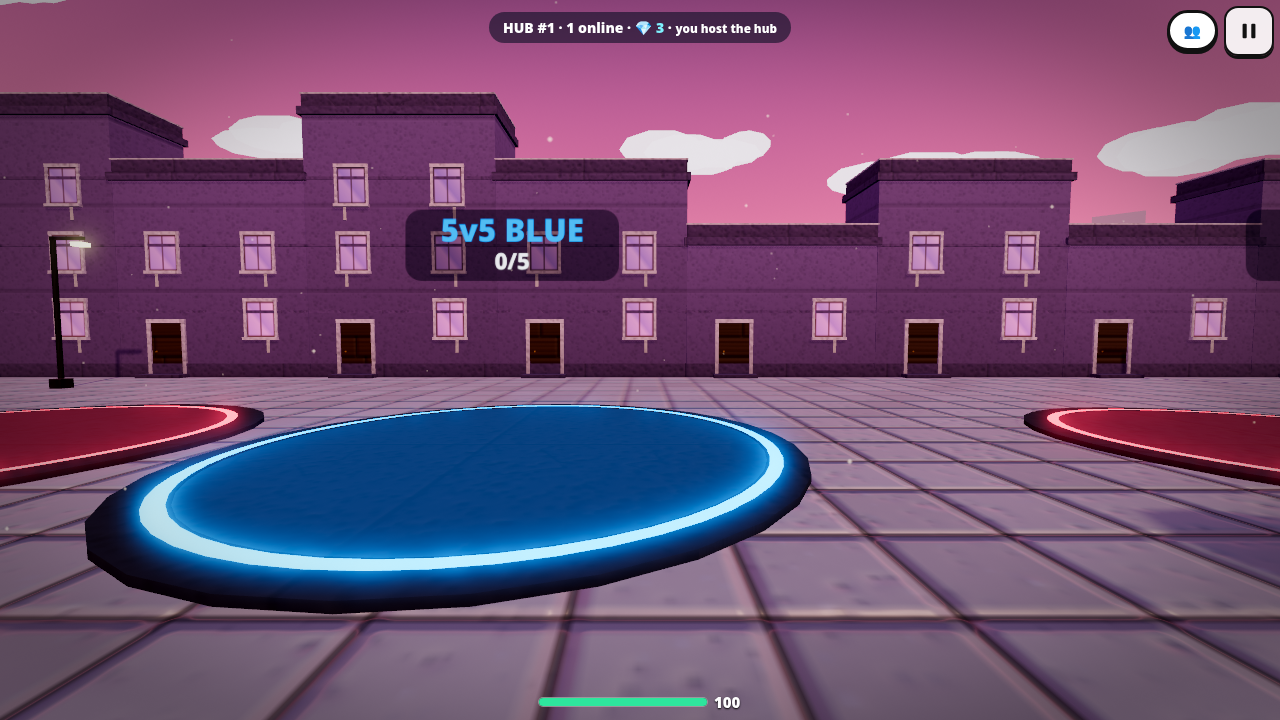
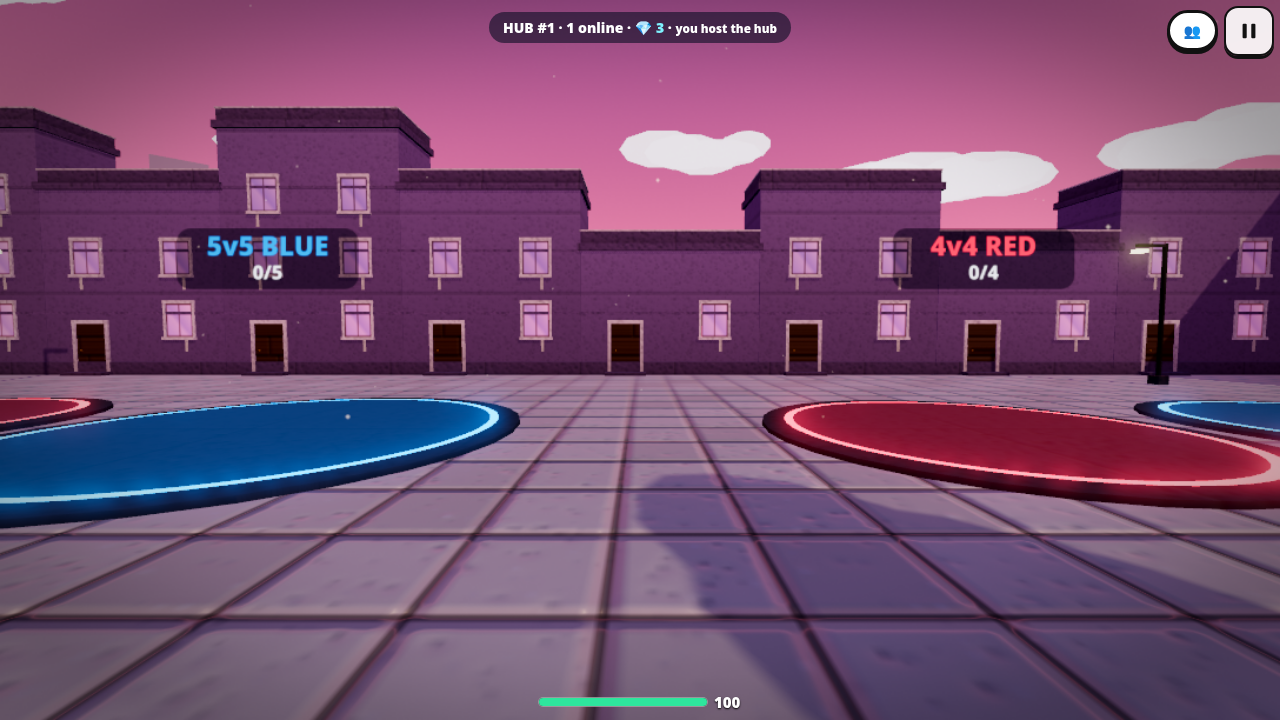
Hub makeover: storefront stations (walls, counter, striped awning, lit sign, shelves with goods, lights) incl. new Skin Studio, NPC shopkeepers that look at players and wave, square colour-coded queue pads in a grid with animated glowing edges/posts, rising particles and fill-based pulse; SW v30

diff --git a/game.js b/game.js
@@ -3,7 +3,7 @@ import {THREE,FX,TX,MC,G,mergeParts,GQ,texMat,swapMats,WT,GRASS_T,scatterGrass,m
 import {WSKINS,WSKIN_IDS,WSKIN_FEAT,applySkin,tickSkins,clearSkinCache} from './wskins.js';
 import {Post} from './post.js';
 import {TURN} from './ice.js';
-import {MAPS,buildMap,HUB_PADS,HUB_ST,HUB_I,padCircles} from './maps.js';
+import {MAPS,buildMap,HUB_PADS,HUB_ST,HUB_I,padCircles,inPad,PAD_COL} from './maps.js';
 import {W,CLASSES,LIMB,falloff,stats,gunParts,handParts} from './weapons.js';
 import {makeCharacter,animate,LOOKS} from './chars.js';
 // player classes: cosmetic look + small balanced perk. Host enforces HP/regen/revive; movement perks apply on the owner's client.
@@ -1082,7 +1082,7 @@ class HubServer{constructor(peer,n){this.peer=peer;this.n=n;this.cl={};this.ord=
  drop(id){const c=this.cl[id];if(!c)return;delete this.cl[id];for(const k in this.rooms)if(this.rooms[k].by===id)delete this.rooms[k];if(c.kind==='player'){this.bc({t:'hl',o:c.ord});this.lastPads=''}}
  tick(){const now=Date.now();const ps=this.players();const free=ps.filter(p=>!p.busy);
   // queue = who is physically standing inside each circle (server-side check, so leaving a circle unqueues instantly)
-  const st={};for(const p of HUB_PADS){st[p.k]={};for(const c of padCircles(p))st[p.k][c.side]=free.filter(q=>Math.hypot(q.pos[0]-c.x,q.pos[2]-c.z)<c.r).sort((a,b)=>a.ord-b.ord).slice(0,p.n).map(q=>q.id)}
+  const st={};for(const p of HUB_PADS){st[p.k]={};for(const c of padCircles(p))st[p.k][c.side]=free.filter(q=>inPad(c,q.pos[0],q.pos[2])).sort((a,b)=>a.ord-b.ord).slice(0,p.n).map(q=>q.id)}
   const key=JSON.stringify(st);if(key!==this.lastPads){this.lastPads=key;const o={};for(const k in st){o[k]={};for(const s in st[k])o[k][s]=st[k][s].map(id=>this.cl[id].ord)}this.bc({t:'pads',q:o});
    if(st.ffa.F.length!==this.ffaN){this.ffaN=st.ffa.F.length;this.ffaT=now}}
   for(const p of HUB_PADS){const s=st[p.k];if(p.single){const n=s.F.length;if(n>=p.n||(n>=2&&now-this.ffaT>15000)){this.startSel(p,s);this.ffaT=now}}else if(s.A.length>=p.n&&s.B.length>=p.n)this.startSel(p,s)}
@@ -1117,28 +1117,42 @@ function enterHubWorld(m){setTimeout(()=>{if(C.hub&&Object.keys(THUMB).length<MA
  inGame=true;resize();const a=Math.random()*6.28;me.pos.set(Math.cos(a)*2.5,0,4+Math.sin(a)*2);me.vel.set(0,0,0);me.yaw=Math.PI;me.pitch=-.05;me.hp=100;me.alive=true;me.frozen=false;me.id='hub-me';
  if(sessionStorage.getItem('hsz_requeue')){sessionStorage.removeItem('hsz_requeue');try{const lp=JSON.parse(sessionStorage.getItem('hsz_pad')||'null');const P=lp&&HUB_PADS.find(p=>p.k===lp[0]);const c=P&&padCircles(P).find(c=>c.side===lp[1]);if(c){me.pos.set(c.x,0,c.z);me.yaw=c.side==='A'?-Math.PI/2:c.side==='B'?Math.PI/2:Math.PI;center('⚔ Re-queued — waiting for players',2500)}}catch(e){}}
  setViewModel(me.load[0]);buildSlots();updHP();for(const r of m.players||[]){hubRecv({t:'hj',p:[r[0],r[1],r[2],r[7]]});const q=C.players['h'+r[0]];if(q){q.tp.set(r[3],r[4],r[5]);q.rp.copy(q.tp);q.seen=1}}
- center('🏠 HEADSHOTZ HUB\nWalk onto a glowing circle to queue',3500);updHubInfo()}
+ center('🏠 HEADSHOTZ HUB\nStep onto a glowing square to queue',3500);updHubInfo()}
 function updHubInfo(){const n=Object.keys(C.players).length+1;$('hubInfo').innerHTML=`<b>HUB #${hubN}</b> · ${n} online · 💎 <b class="diaBal">${PROG.dia}</b>${hubSrv?' · <small>you host the hub</small>':''}`}
 function labelTex(lines,col){const c=document.createElement('canvas');c.width=512;c.height=192;const x=c.getContext('2d');x.textAlign='center';x.fillStyle='rgba(10,14,35,.6)';x.beginPath();x.roundRect?x.roundRect(16,16,480,160,36):x.rect(16,16,480,160);x.fill();
  x.fillStyle=col;x.font='900 70px system-ui,Arial Black,sans-serif';x.fillText(lines[0],256,88);x.fillStyle='#fff';x.font='800 50px system-ui,sans-serif';x.fillText(lines[1]||'',256,150);const t=new THREE.CanvasTexture(c);t.colorSpace=THREE.SRGBColorSpace;return t}
-function buildPadVis(){if(hubVis){scene.remove(hubVis.g)}const g=new THREE.Group();hubVis={g,rings:[],labels:{}};
- const COL={A:0x3fa9ff,B:0xff5a6b,F:0xffd23f};
- for(const p of HUB_PADS)for(const c of padCircles(p)){const col=new THREE.Color(COL[c.side]);
-  const ring=new THREE.Mesh(new THREE.RingGeometry(c.r-.16,c.r,56),new THREE.MeshBasicMaterial({color:col.clone().multiplyScalar(2.6),side:THREE.DoubleSide,toneMapped:true}));ring.rotation.x=-Math.PI/2;ring.position.set(c.x,.1,c.z);
-  const fill=new THREE.Mesh(new THREE.CircleGeometry(c.r-.16,48),new THREE.MeshBasicMaterial({color:col,transparent:true,opacity:.16,depthWrite:false,blending:THREE.AdditiveBlending}));fill.rotation.x=-Math.PI/2;fill.position.set(c.x,.09,c.z);
+function buildPadVis(){if(hubVis){scene.remove(hubVis.g)}const g=new THREE.Group();hubVis={g,rings:[],labels:{},npcs:[]};
+ const SIDE={A:0x3fa9ff,B:0xff5a6b,F:0xffd23f};const lo=GQ.level==='low';
+ for(const p of HUB_PADS)for(const c of padCircles(p)){const col=new THREE.Color(PAD_COL[p.k]||0xffffff),h=c.h;
+  const edge=new THREE.Group();const em=new THREE.MeshBasicMaterial({color:col.clone().multiplyScalar(2.4),transparent:true,opacity:.95,depthWrite:false,blending:THREE.AdditiveBlending});
+  for(const[w,d,x,z]of[[2*h,.14,0,-h],[2*h,.14,0,h],[.14,2*h,-h,0],[.14,2*h,h,0]]){const m=new THREE.Mesh(new THREE.BoxGeometry(w,.05,d),em);m.position.set(x,0,z);edge.add(m)}
+  for(const[x,z]of[[-h,-h],[h,-h],[-h,h],[h,h]]){const post=new THREE.Mesh(new THREE.BoxGeometry(.16,.9,.16),em);post.position.set(x,.45,z);edge.add(post)}
+  edge.position.set(c.x,.11,c.z);
+  const fill=new THREE.Mesh(new THREE.PlaneGeometry(2*h-.2,2*h-.2),new THREE.MeshBasicMaterial({color:col,transparent:true,opacity:.14,depthWrite:false,blending:THREE.AdditiveBlending}));fill.rotation.x=-Math.PI/2;fill.position.set(c.x,.1,c.z);
+  const sideBar=new THREE.Mesh(new THREE.PlaneGeometry(2*h-.6,.35),new THREE.MeshBasicMaterial({color:new THREE.Color(SIDE[c.side]).multiplyScalar(1.8),transparent:true,opacity:.8,depthWrite:false}));sideBar.rotation.x=-Math.PI/2;sideBar.position.set(c.x,.105,c.z+h-.45);
+  let pts=null;if(!lo){const N=28,pos=new Float32Array(N*3),seed=new Float32Array(N);for(let i=0;i<N;i++){seed[i]=Math.random();const e=i%4,t=Math.random()*2-1;pos[i*3]=c.x+(e<2?t*h:(e===2?-h:h));pos[i*3+2]=c.z+(e<2?(e===0?-h:h):t*h)}
+   const gg=new THREE.BufferGeometry();gg.setAttribute('position',new THREE.BufferAttribute(pos,3));pts=new THREE.Points(gg,new THREE.PointsMaterial({size:.16,map:TX.soft,color:col,transparent:true,depthWrite:false,blending:THREE.AdditiveBlending}));pts.userData.seed=seed;pts.frustumCulled=false;g.add(pts)}
   const spr=new THREE.Sprite(new THREE.SpriteMaterial({map:labelTex([MODES[p.k][0].split(' ')[0],'0/'+p.n],'#'+col.getHexString()),depthWrite:false,transparent:true}));spr.scale.set(3.2,1.2,1);spr.position.set(c.x,2.9,c.z);
-  g.add(ring,fill,spr);hubVis.rings.push({ring,fill,c,p});hubVis.labels[p.k+c.side]={spr,col:'#'+col.getHexString(),p,c}}
- for(const s of HUB_ST){const spr=new THREE.Sprite(new THREE.SpriteMaterial({map:labelTex([s.name.split(' ')[0],s.name.split(' ').slice(1).join(' ')],'#ffd23f'),depthWrite:false,transparent:true}));spr.scale.set(3.6,1.35,1);spr.position.set(s.x+(s.k==='practice'?0:1.2),4.3,s.z);g.add(spr)}
+  g.add(edge,fill,sideBar,spr);hubVis.rings.push({edge,em,fill,pts,c,p});hubVis.labels[p.k+c.side]={spr,col:'#'+col.getHexString(),p,c}}
+ for(const s of HUB_ST){const spr=new THREE.Sprite(new THREE.SpriteMaterial({map:labelTex([s.name.split(' ')[0],s.name.split(' ').slice(1).join(' ')],'#'+new THREE.Color(s.col||0xffd23f).getHexString()),depthWrite:false,transparent:true}));spr.scale.set(3.6,1.35,1);spr.position.set(s.x+(s.k==='practice'?0:1.2),5.3,s.z);g.add(spr);
+  if(s.npc){const m=makeCharacter(s.col,s.npc,'npc'+s.k,0xffffff,null,s.cls);m.position.set(s.x+.35,0,s.z);m.rotation.y=-Math.PI/2;g.add(m);hubVis.npcs.push({m,s,wave:0,near:false})}}
  scene.add(g);updPadLabels()}
+function updNPCs(dt,now){if(!hubVis)return;const t=now/1000;for(const n of hubVis.npcs){const u=n.m.userData;const ps=[me.pos,...Object.values(C.players).filter(q=>q.rp).map(q=>q.rp)];let best=null,bd=7;for(const p of ps){const d=Math.hypot(p.x-n.m.position.x,p.z-n.m.position.z);if(d<bd){bd=d;best=p}}
+  animate(n.m,{speed:0,pitch:0,dist:camera.position.distanceTo(n.m.position)},dt);
+  const near=!!best;if(near&&!n.near)n.wave=1.6;n.near=near;
+  if(best){const dx=best.x-n.m.position.x,dz=best.z-n.m.position.z;let a=Math.atan2(-dx,-dz)-n.m.rotation.y;a=Math.atan2(Math.sin(a),Math.cos(a));a=Math.max(-1,Math.min(1,a));u.head.rotation.y+=(a-u.head.rotation.y)*Math.min(1,dt*5);if(u.torso)u.torso.rotation.y=a*.3}else u.head.rotation.y*=.95;
+  if(n.wave>0){n.wave-=dt;u.aim.rotation.x=-1.9+Math.sin(t*12)*.25;u.aim.rotation.z=Math.sin(t*12)*.15}else{u.aim.rotation.x+=(.55-u.aim.rotation.x)*Math.min(1,dt*4);u.aim.rotation.z*=.9}}}
 function updPadLabels(){if(!hubVis)return;for(const k in hubVis.labels){const L=hubVis.labels[k];const n=myPads&&myPads[L.p.k]?(myPads[L.p.k][L.c.side]||[]).length:0;const side=L.c.side==='A'?'BLUE':L.c.side==='B'?'RED':'FFA';
   const key=n+'';if(L.k===key)continue;L.k=key;L.spr.material.map.dispose();L.spr.material.map=labelTex([MODES[L.p.k][0].split(' ')[0]+' '+side,`${n}/${L.p.n}`],L.col);L.spr.material.needsUpdate=true}
  let mine=null;if(myPads)for(const k in myPads)for(const s in myPads[k])if(myPads[k][s].includes(hubOrd))mine=[k,s];if(mine)lastPad=mine;
  $('padInfo').textContent=mine?`Queued: ${MODES[mine[0]][0]} · ${mine[1]==='A'?'BLUE':mine[1]==='B'?'RED':'FFA'} side — waiting for players… step off to leave`:''}
 function updHub(dt,now){if(C.phase!=='hub')return;hubPosT+=dt;if(hubPosT>=.125){hubPosT=0;hubSend({t:'pos',p:[+me.pos.x.toFixed(2),+me.pos.y.toFixed(2),+me.pos.z.toFixed(2),+me.yaw.toFixed(2)]})}
- if(hubVis)for(const r of hubVis.rings){const inside=Math.hypot(me.pos.x-r.c.x,me.pos.z-r.c.z)<r.c.r;const s=1+Math.sin(now/300+r.c.x)*.015;r.ring.scale.setScalar(s);r.fill.material.opacity=inside?.34+Math.sin(now/150)*.08:.14}
+ if(hubVis){updNPCs(dt,now);for(const r of hubVis.rings){const inside=inPad(r.c,me.pos.x,me.pos.z);const n=myPads&&myPads[r.p.k]?(myPads[r.p.k][r.c.side]||[]).length:0;const fr=n/r.p.n;const rate=150+450*(1-fr);const pl=.5+.5*Math.sin(now/rate+r.c.x);
+  r.em.opacity=.55+.45*pl;r.edge.scale.set(1+pl*.012*(1+fr),1+fr*1.5,1+pl*.012*(1+fr));r.fill.material.opacity=(inside?.3:.1)+fr*.25+pl*.06;
+  if(r.pts){const pa=r.pts.geometry.attributes.position,sd=r.pts.userData.seed;for(let i=0;i<pa.count;i++){let y=((now/1000)*(.6+fr*1.2+sd[i]*.4)+sd[i]*3)%2.2;pa.array[i*3+1]=.1+y}pa.needsUpdate=true;r.pts.material.opacity=.5+fr*.5}}}
  let st=null,bd=3.2;for(const s of HUB_ST){const d=Math.hypot(me.pos.x-s.x,me.pos.z-s.z);if(d<bd){bd=d;st=s}}const b=$('stationBtn');if(st){b.textContent='TAP: '+st.name;b.dataset.k=st.k;b.classList.remove('hidden')}else b.classList.add('hidden');
  if(Math.random()<dt)updHubInfo()}
-function useStation(k){if(k==='shop')openArsenal(null,'shop');else if(k==='upgrade')openArsenal(null,'upgrade');else if(k==='arsenal')openArsenal();else if(k==='classes')openClasses();else if(k==='practice'){location.href=location.pathname+'?offline=1'+(/[?&]net=local/.test(location.search)?'&net=local':'')}}
+function useStation(k){if(k==='shop')openArsenal(null,'shop');else if(k==='upgrade')openArsenal(null,'upgrade');else if(k==='arsenal')openArsenal();else if(k==='classes')openClasses();else if(k==='skins')openArsenal('skins');else if(k==='practice'){location.href=location.pathname+'?offline=1'+(/[?&]net=local/.test(location.search)?'&net=local':'')}}
 $('stationBtn').onclick=()=>useStation($('stationBtn').dataset.k);
 // ---------- map selection (5 s, majority wins, random tie-break on the hub host) ----------
 let mapSelIv=null;

diff --git a/maps.js b/maps.js
@@ -210,11 +210,13 @@ export const MAPS=DEFS.map(d=>({name:d.name,desc:d.desc,icon:d.icon,def:d}));
 // ---------- 3D MAIN HUB (not in the map vote) ----------
 // queue pads: pairs of circles (blue A / red B); radius scales with team size so n players fit side by side
 export const PAD_R=n=>1.15+.5*n;
+export const PAD_COL={duel:0xff8a3d,team:0x2fd5ff,t3:0x4cff7a,t4:0xb37bff,t5:0xff4fa3,ffa:0xffd23f};
+export function inPad(c,x,z){return Math.abs(x-c.x)<c.h&&Math.abs(z-c.z)<c.h}
 export const HUB_PADS=[
- {k:'duel',n:1,x:-20,z:-15},{k:'team',n:2,x:-6,z:-15},{k:'t3',n:3,x:10.5,z:-15},
- {k:'t4',n:4,x:-12,z:12},{k:'t5',n:5,x:8,z:12},{k:'ffa',n:8,x:25,z:13,single:1}];
-export function padCircles(p){const r=p.single?3.2:PAD_R(p.n);if(p.single)return[{side:'F',x:p.x,z:p.z,r}];const off=r+.7;return[{side:'A',x:p.x-off,z:p.z,r},{side:'B',x:p.x+off,z:p.z,r}]}
-export const HUB_ST=[{k:'shop',name:'🛒 WEAPON SHOP',x:-27,z:-3},{k:'upgrade',name:'⭐ UPGRADES',x:-27,z:5},{k:'practice',name:'🤖 PRACTICE VS BOTS',x:28,z:-4},{k:'classes',name:'🎭 CLASS BOOTH',x:-27,z:-11}];
+ {k:'duel',n:1,x:-15,z:-15},{k:'team',n:2,x:0,z:-15},{k:'t3',n:3,x:15,z:-15},
+ {k:'t4',n:4,x:-13,z:13},{k:'t5',n:5,x:3,z:13},{k:'ffa',n:8,x:18.5,z:13,single:1}];
+export function padCircles(p){const h=p.single?3.2:Math.min(3.1,.95+.45*p.n);const r=h;if(p.single)return[{side:'F',x:p.x,z:p.z,r,h}];const off=h+.45;return[{side:'A',x:p.x-off,z:p.z,r,h},{side:'B',x:p.x+off,z:p.z,r,h}]}// square pads: h = half side
+export const HUB_ST=[{k:'shop',name:'🛒 WEAPON SHOP',x:-27,z:-3,col:0xffb020,npc:'Gus',cls:'soldier'},{k:'upgrade',name:'⭐ UPGRADES',x:-27,z:5,col:0xb06bff,npc:'Ivy',cls:'engineer'},{k:'practice',name:'🤖 PRACTICE VS BOTS',x:28,z:-4},{k:'classes',name:'🎭 CLASS BOOTH',x:-27,z:-11,col:0x3fa9ff,npc:'Kai',cls:'ninja'},{k:'skins',name:'🎨 SKIN STUDIO',x:-27,z:13,col:0xff4fa3,npc:'Remy',cls:'scout'}];
 DEFS.push({name:'HeadShotz Hub',hub:true,desc:'Main lobby',icon:'🏠',size:[64,48],ground:['tiles',0x9aa3b5,.22],grade:[1,1,1.04,1.15,1.06],horizon:'city',
  sky:[0x24306e,0xff8fa3,0xffc59a],fog:[0xd99aa8,60,160],hemi:[0xe8e4ff,0x6a5a7a,1.35],sun:[0xffd6b0,1.7,[-.4,.55,-.6]],
  build(B){// perimeter: glassy towers + low walls
@@ -223,10 +225,23 @@ DEFS.push({name:'HeadShotz Hub',hub:true,desc:'Main lobby',icon:'🏠',size:[64,
   B.cyl(0,0,-1,3.2,.5,0xd9dde6,'concrete',{seg:24});B.glow(0,.5,-1,5.6,.05,5.6,0xffd23f);B.cyl(0,.5,-1,1.1,2.2,0x2b2f3a,'metal',{seg:16});
   B.part('metal',{g:G('ico',1.1,1),p:[0,3.4,-1],c:0xffd23f});B.glow(0,2.7,-1,.3,.05,.3,0xffffff);
   // pad platforms (low daises) and lane markings
-  for(const p of HUB_PADS){for(const c of padCircles(p))B.cyl(c.x,0,c.z,c.r+.35,.08,0x2a3045,'concrete',{seg:32,solid:false,shadow:false})}
+  for(const p of HUB_PADS){for(const c of padCircles(p)){B.box(c.x,0,c.z,c.h*2+.5,.08,c.h*2+.5,0x232838,'metal',{solid:false,shadow:false});B.box(c.x,.08,c.z,c.h*2-.1,.012,c.h*2-.1,0x1a1e2b,'tiles',{solid:false,shadow:false})}}
   // stations: kiosks with glowing screens
-  const kiosk=(x,z,col)=>{B.box(x,0,z,2.4,2.6,1.4,0x2b2f3a,'metal');B.box(x+.75,0,z,.12,2.4,1.2,col,'metal',{solid:false,shadow:false});B.glow(x+.72,1.2,z,.06,1.1,1.05,col);B.box(x,2.6,z,2.8,.25,1.8,col,'metal',{solid:false,shadow:false});B.glow(x,2.85,z,2.6,.08,1.6,col)};
-  kiosk(-27,-3,0xffb020);kiosk(-27,5,0xb06bff);kiosk(-27,-11,0x3fa9ff);
+  // storefronts: back wall, side walls, counter, striped awning, lit sign, shelves with displayed goods, ceiling light
+  const store=(st)=>{const{x,z,col,k}=st;const W=6.2,bx=x-2.2,fx=x+1.1;const dk=0x2b2f3a,wd=0x6b4a33;
+   B.box(bx,0,z,.3,4,W,0x3a3f4f,'brick');for(const s of[-1,1])B.box(x-.6,0,z+s*(W/2-.15),3.4,4,.3,0x3a3f4f,'brick');B.box(x-.6,4,z,3.6,.25,W+.2,dk,'metal',{solid:false});
+   B.box(fx,0,z,.7,1.1,W-1.6,wd,'planks');B.box(fx+.05,1.1,z,.85,.07,W-1.4,0xd9d2c0,'tiles',{solid:false});B.glow(fx+.38,.15,z,.02,.08,W-1.7,col);// counter + top + kick light
+   for(let i=0;i<7;i++)B.box(x+1.2,3.25-i*.012,z-W/2+.45+i*(W-.9)/7+(W-.9)/14,1.6,.06,(W-.9)/7,i%2?0xffffff:col,'plain',{solid:false,shadow:false});// awning stripes (slanted via step)
+   B.box(x+1.95,2.9,z,.06,.35,W-.6,col,'plain',{solid:false,shadow:false});
+   B.box(x+.5,4.25,z,.18,.9,W-1.2,dk,'metal',{solid:false,shadow:false});B.glow(x+.6,4.35,z,.02,.7,W-1.5,col);// sign board
+   for(const y of[1.2,2.0,2.8]){B.box(bx+.4,y,z,.5,.05,W-.9,wd,'planks',{solid:false,shadow:false});B.glow(bx+.62,y-.04,z,.02,.02,W-1,0xfff1d6)}// shelves + strip lights
+   B.glow(x-.6,3.95,z,1.6,.03,1.2,0xfff1d6);
+   for(let si=0;si<3;si++){const y=1.25+si*.8;for(let i=0;i<5;i++){const zz=z-W/2+1+i*(W-2)/4;if(k==='shop'){B.box(bx+.45,y,zz,.08,.12,.7,0x8a9099,'metal',{solid:false,shadow:false});B.box(bx+.45,y+.12,zz+.15,.08,.18,.08,0x8a9099,'metal',{solid:false,shadow:false});B.glow(bx+.5,y-.01,zz,.02,.02,.7,0xffb020)}
+    else if(k==='skins'){const cs=[0xff4fa3,0x2fd5ff,0xffd23f,0x9b59ff,0x4cff7a];B.box(bx+.45,y,zz,.06,.1,.6,cs[(i+si)%5],'metal',{solid:false,shadow:false});if((i+si)%2)B.glow(bx+.49,y+.02,zz,.01,.06,.5,cs[(i+si+2)%5])}
+    else if(k==='classes'){B.part('metal',{g:G('sph',.13,10,8),p:[bx+.45,y+.13,zz],s:[1,.8,1.1],c:[0x4b5344,0x15161a,0x2f3338,0xe9ecef,0x6b5b3e][i]})}
+    else{B.glow(bx+.45,y+.02,zz,.04,.22,.22,[0xffd23f,0xb06bff,0x2fd5ff][(i+si)%3])}}}
+   if(!B.lo)B.box(x+1.8,0,z+W/2-.3,.5,.9,.5,0x9c7a4b,'crate',{local:true})};
+  for(const st of HUB_ST)if(st.col)store(st);
   // practice portal arch
   B.box(28,0,-6,.8,4.2,.8,0x2b2f3a,'metal');B.box(28,0,-2,.8,4.2,.8,0x2b2f3a,'metal');B.box(28,4.2,-4,.8,.7,4.8,0x2b2f3a,'metal');B.glow(28,.05,-4,.1,4.1,3.2,0x2ee59d);
   // benches, planters, lamps for life

diff --git a/sw.js b/sw.js
@@ -1,5 +1,5 @@
 // Network-first service worker: always try fresh files (so updates show), fall back to cache offline.
-const CACHE='headshotz-v29';
+const CACHE='headshotz-v30';
 const ASSETS=['./','index.html','style.css','game.js','maps.js','maps2.js','mapdress.js','wskins.js','gfx.js','weapons.js','chars.js','post.js','ice.js','manifest.json','lib/three.module.min.js','lib/peerjs.min.js','lib/localpeer.js','icons/icon-180.png','icons/icon-192.png','icons/icon-512.png'];
 self.addEventListener('install',e=>{self.skipWaiting();e.waitUntil(caches.open(CACHE).then(c=>c.addAll(ASSETS)).catch(()=>{}))});
 self.addEventListener('activate',e=>e.waitUntil(caches.keys().then(k=>Promise.all(k.filter(n=>n!==CACHE).map(n=>caches.delete(n)))).then(()=>self.clients.claim())));
